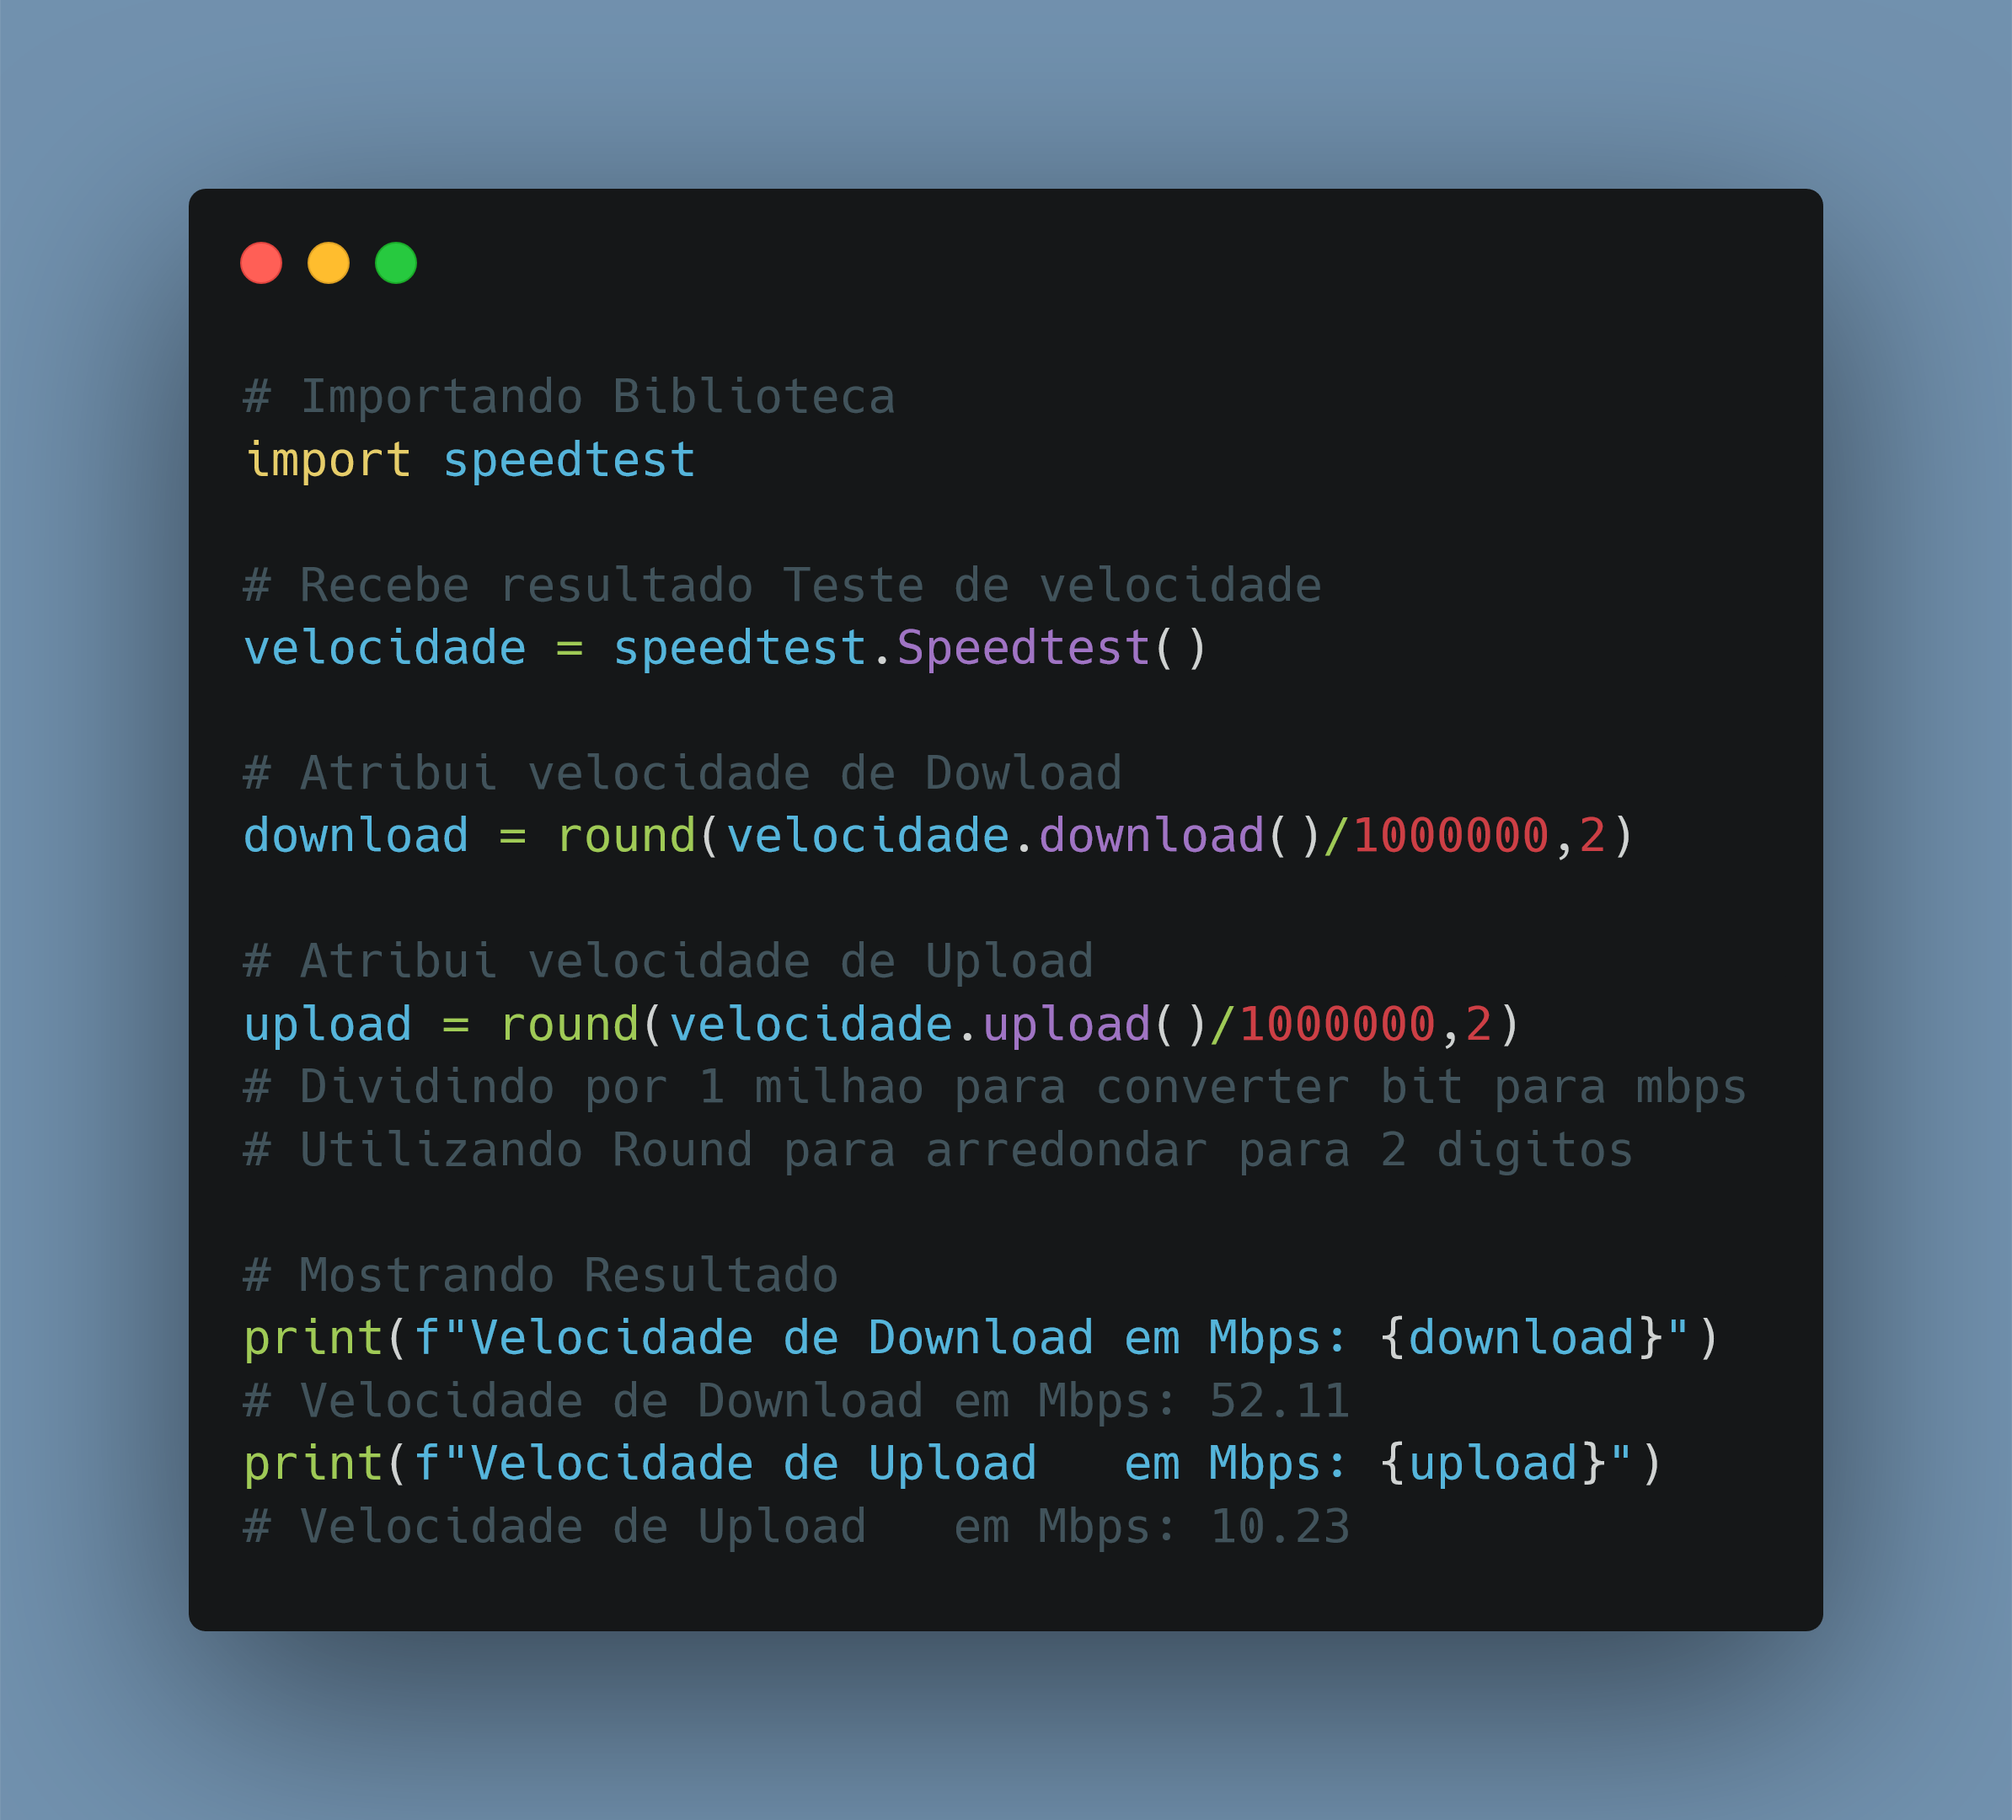
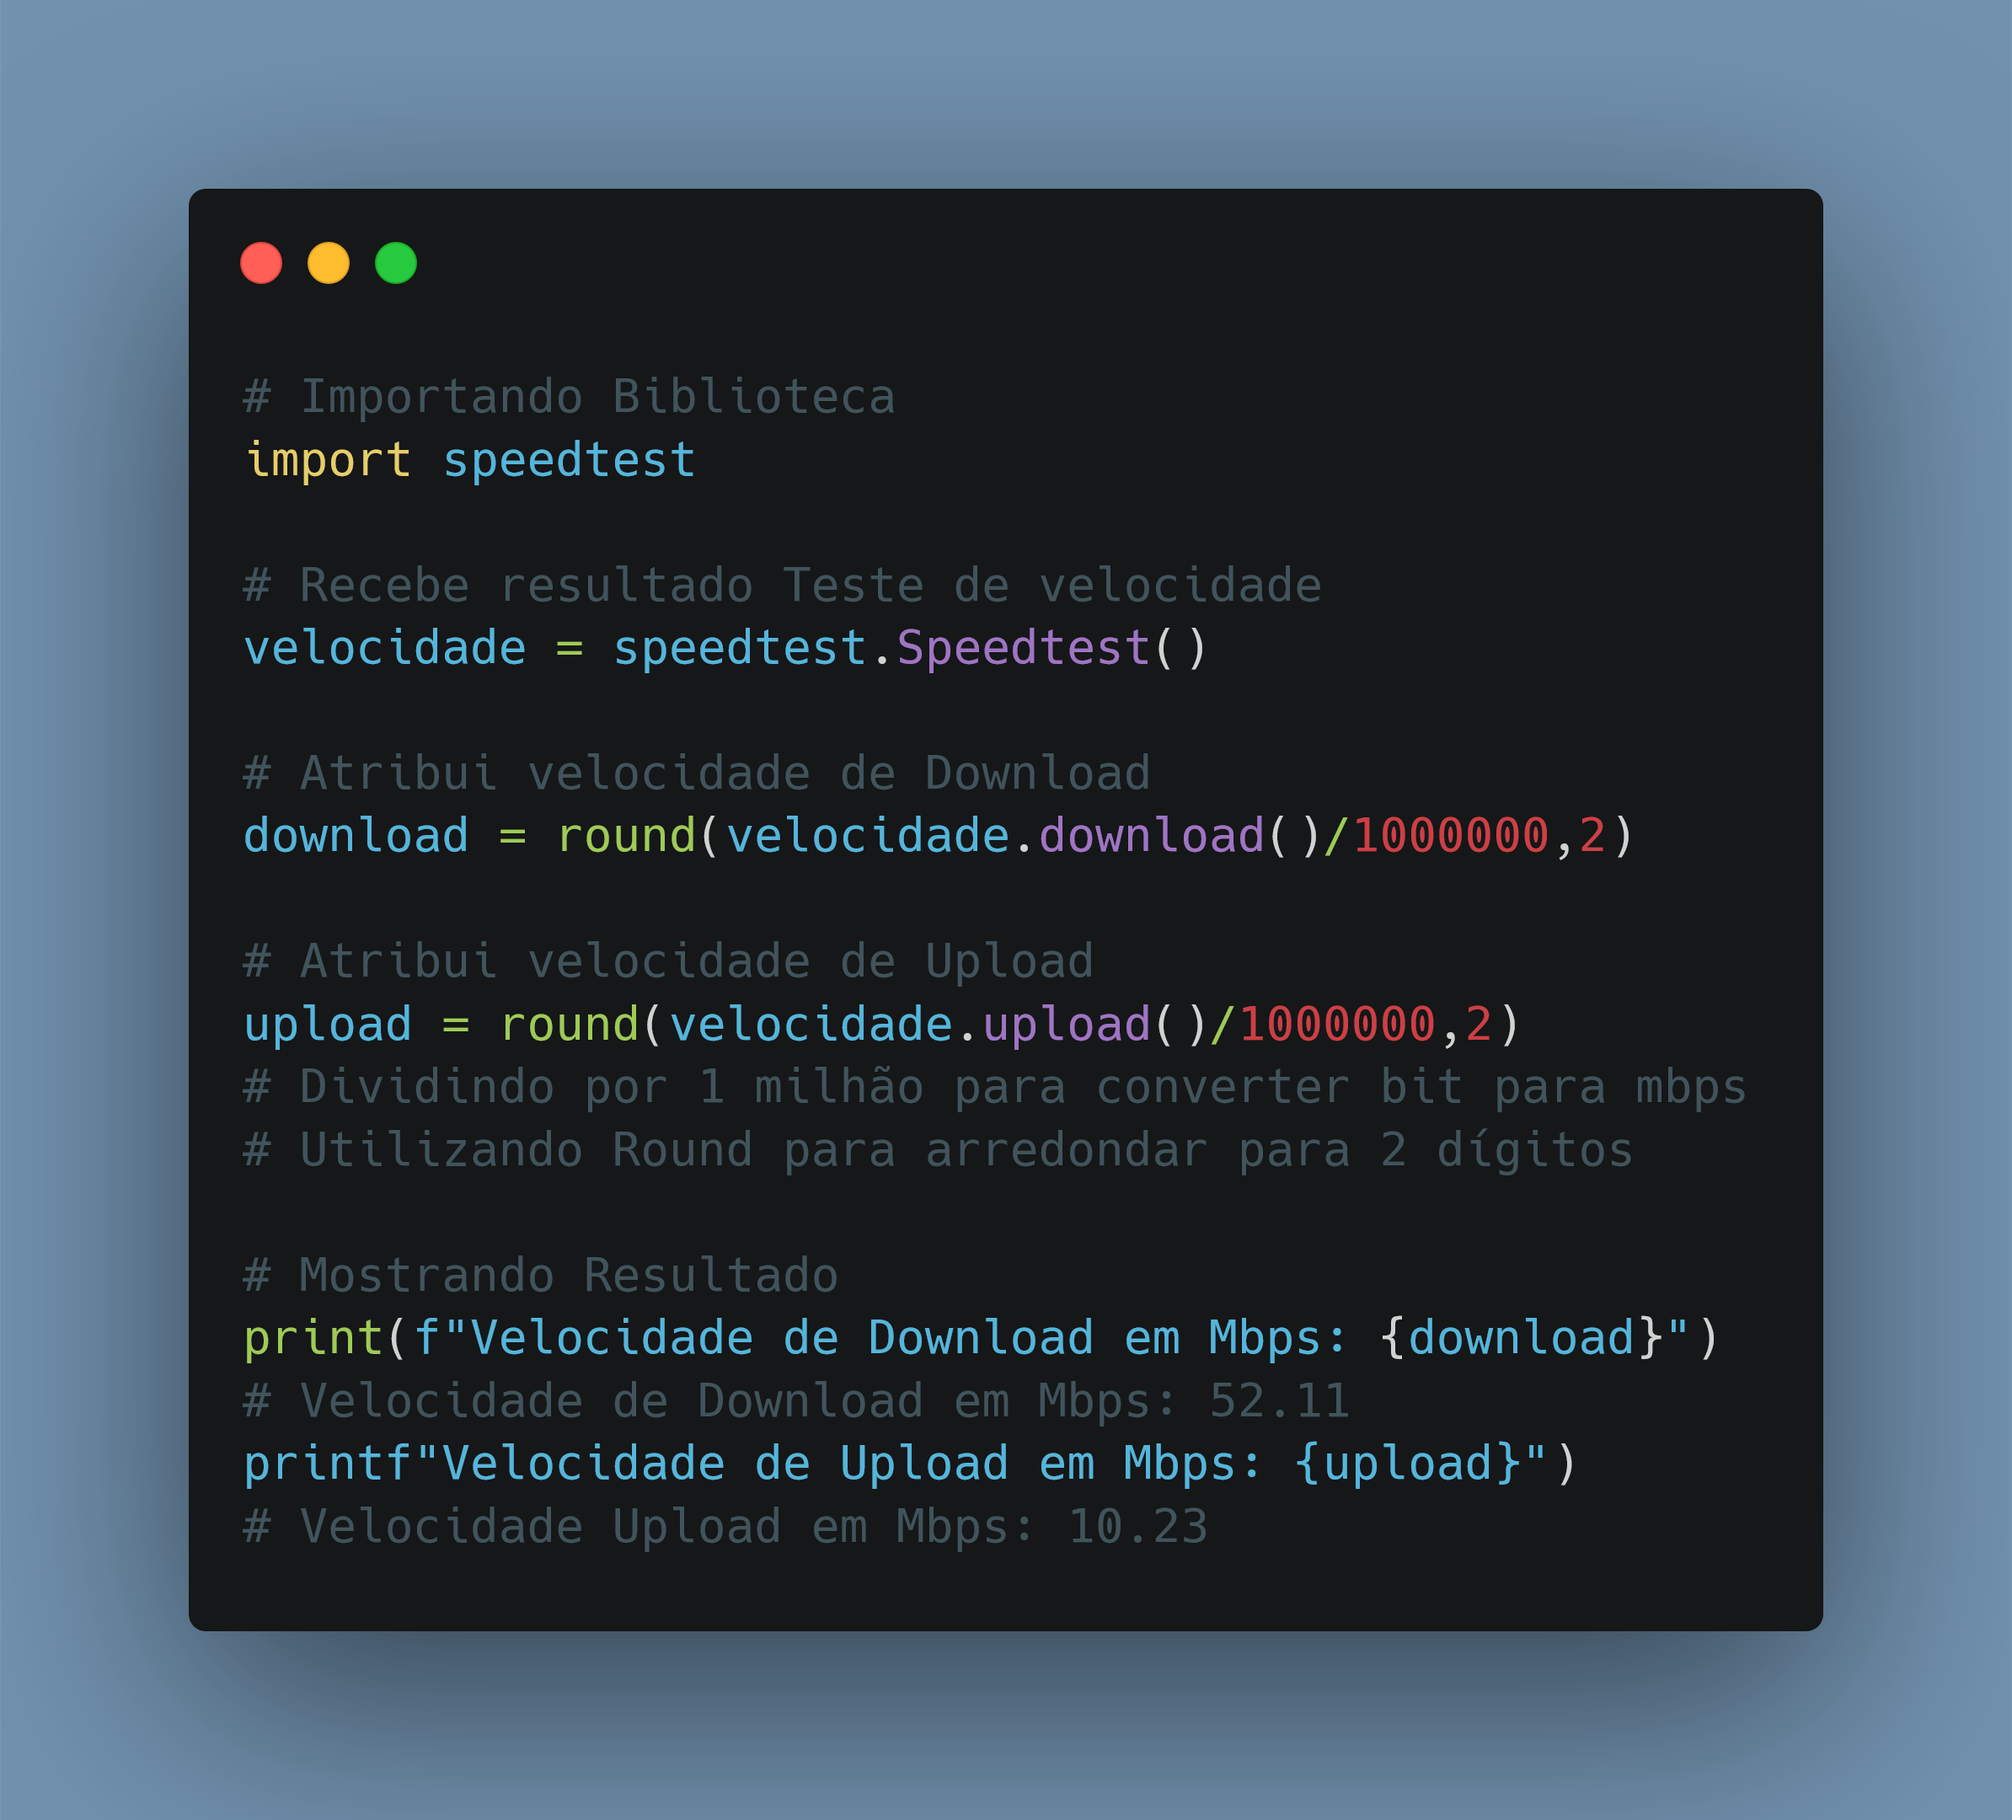
att dia 4

Changed region(s): [[0.1549, 0.7755, 0.8057, 0.8685], [0.4958, 0.4032, 0.5578, 0.4343]]

diff --git a/Dia_04_velocidade_internet/main.py b/Dia_04_velocidade_internet/main.py
@@ -4,16 +4,16 @@ import speedtest
 # Recebe resultado Teste de velocidade
 velocidade = speedtest.Speedtest()
 
-# Atribui velocidade de Dowload
+# Atribui velocidade de Download
 download = round(velocidade.download()/1000000,2)
 
 # Atribui velocidade de Upload
 upload = round(velocidade.upload()/1000000,2)
-# Dividindo por 1 milhao para converter bit para mbps
-# Utilizando Round para arredondar para 2 digitos
+# Dividindo por 1 milhão para converter bit para mbps
+# Utilizando Round para arredondar para 2 dígitos
 
 # Mostrando Resultado
 print(f"Velocidade de Download em Mbps: {download}")
 # Velocidade de Download em Mbps: 52.11
-print(f"Velocidade de Upload   em Mbps: {upload}")
-# Velocidade de Upload   em Mbps: 10.23
+printf"Velocidade de Upload em Mbps: {upload}")
+# Velocidade Upload em Mbps: 10.23

diff --git a/README.md b/README.md
@@ -8,5 +8,6 @@
 > - [ ] Demonstrando README perfil
 > - [ ] Demonstrando README Python
 > - [ ] Demonstrando Projetos
-> - [ ] Conversores (Imagem, vídeo, áudio)
+> - [ ] Testando Velocidade internet
+> - [ ] Conversores (Imagem X, vídeo, áudio)
 > - [ ] Reconhecimento de voz (áudio para texto)
